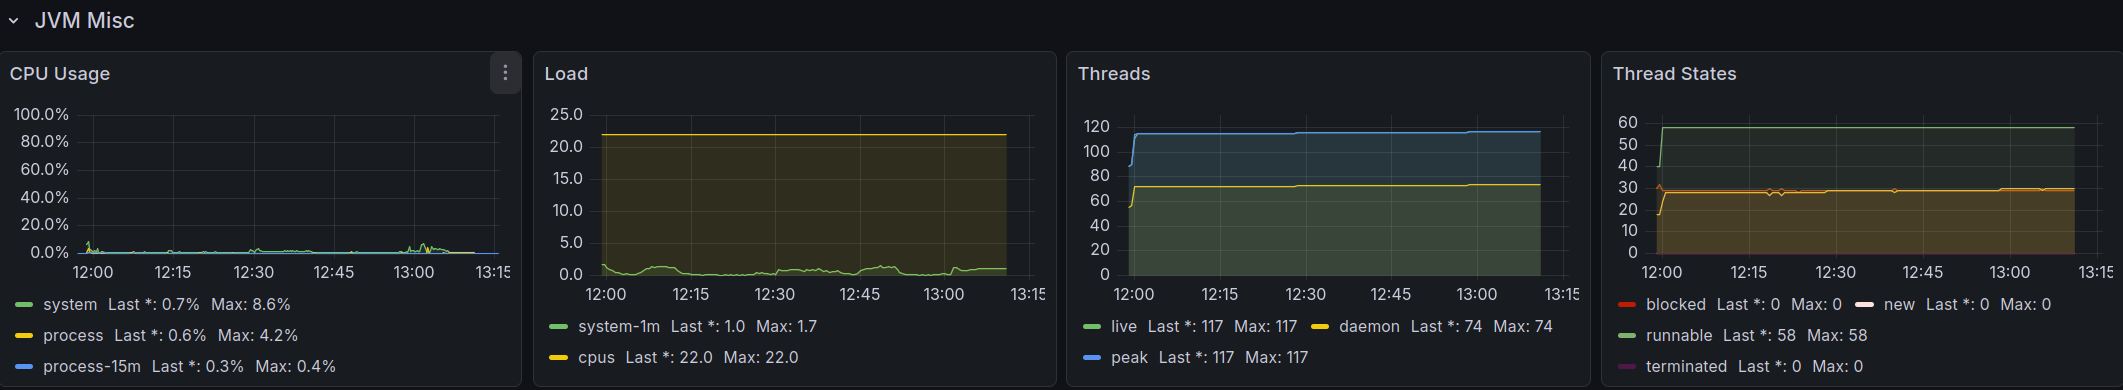
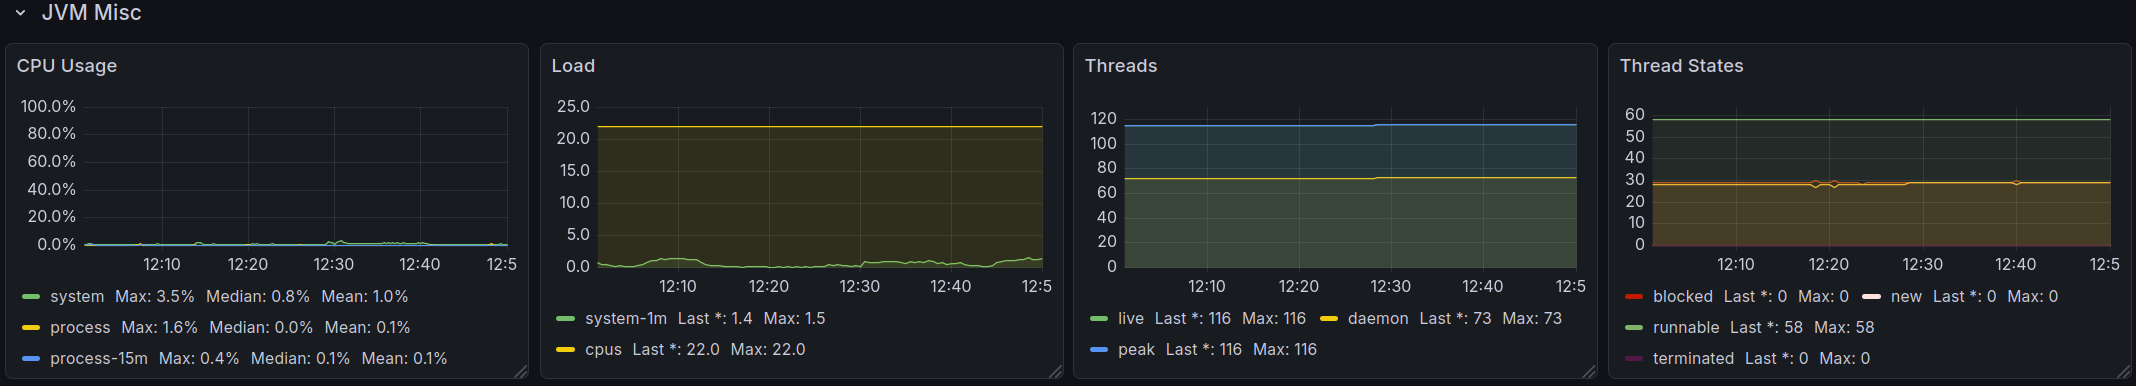
small medium daten erfasst

diff --git a/doc/scenarios/0-overview.md b/doc/scenarios/0-overview.md
@@ -16,14 +16,14 @@ scenario against the running Park Flow application and validate the result.
 
 ## Available Scenarios
 
-| #                                  | Scenario ID              | Description                                                    | Duration  |
-|------------------------------------|--------------------------|----------------------------------------------------------------|-----------|
+| #                                                             | Scenario ID              | Description                                                    | Duration  |
+|---------------------------------------------------------------|--------------------------|----------------------------------------------------------------|-----------|
 | [1](1-simple-parking-inventory/1-simple-parking-inventory.md) | simple-parking-inventory | Covers all use cases for creating a parking inventory          | ca. 1m    |
-| [2](2-simple-customer-access/2-simple-customer-access.md)   | simple-customer-access   | Covers all use cases for a customer end renting a parking spot | ca. 1m    |
+| [2](2-simple-customer-access/2-simple-customer-access.md)     | simple-customer-access   | Covers all use cases for a customer end renting a parking spot | ca. 1m    |
 | [3](3-simple-parking-operation/3-simple-parking-operation.md) | simple-parking-operation | Covers use cases for a parking operation                       | ca. 1m    |
-| [4](4-realistic-small/4-realistic-small.md)          | realistic-small          | Simulates a small parking lot with realistic timings           | ca. 1h5m  |
-| [5](5-realistic-medium/5-realistic-medium.md)         | realistic-medium         | Simulates a medium-sized parking lot with realistic timings    | ca. 2h45m |
-| [6](6-realistic-large/6-realistic-large.md)          | realistic-large          | Simulates a large parking lot with realistic timings           | ca. 10h   |
+| [4](4-realistic-small/4-realistic-small.md)                   | realistic-small          | Simulates a small parking lot with realistic timings           | ca. 1h5m  |
+| [5](5-realistic-medium/5-realistic-medium.md)                 | realistic-medium         | Simulates a medium-sized parking lot with realistic timings    | ca. 2h45m |
+| [6](6-realistic-large/6-realistic-large.md)                   | realistic-large          | Simulates a large parking lot with realistic timings           | ca. 10h   |
 
 ## Realistic Scenario Overview
 
@@ -33,5 +33,48 @@ scenario against the running Park Flow application and validate the result.
 | medium | 1.000         | 2     | 1.200    | 8s - 12s                   | 1m - 3m      | 1m - 3m       | 20m - 30m    | ca. 2h45m  |
 | large  | 10.000        | 5     | 12.000   | 8s - 12s                   | 1m - 4m      | 1m - 4m       | 20m - 30m    | ca. 10h    |
 
-## Realistic Scenario Details
+## Realistic Scenario Results
+
+| Category         | Value           | small            | medium           | large | 
+|------------------|-----------------|------------------|------------------|-------|
+| JVM Memory       |                 |                  |                  |       |
+|                  | max. used       | 505 MiB          | 464 MiB          |       |
+|                  | median used     | 361 MiB          | 343 MiB          |       |
+|                  | mean used       | 367 MiB          | 344 MiB          |       |
+|                  | max. commited   | 591 MiB          | 535 MiB          |       |
+|                  | median commited | 590 MiB          | 535 MiB          |       |
+|                  | mean commited   | 558 MiB          | 535 MiB          |       |
+|                  | max. maximal    | 16,6 GiB         | 16,6 GiB         |       |
+|                  | median maximal  | 16,6 GiB         | 16,6 GiB         |       |
+|                  | mean maximal    | 16,6 GiB         | 16,6 GiB         |       |
+| CPU Usage        |                 |                  |                  |       |
+|                  | max. system     | 3,5%             | 2,1%             |       |
+|                  | median system   | 0,8%             | 0,6%             |       |
+|                  | mean system     | 1,0%             | 0,7%             |       |
+|                  | max. process    | 1,6%             | 11,1%            |       |
+|                  | median process  | 0,0%             | 0,1%             |       |
+|                  | mean process    | 0,1%             | 0,2%             |       |
+| Threads          |                 |                  |                  |       |
+|                  | max. live       | 117              | 120              |       |
+|                  | max. peak       | 117              | 120              |       |
+|                  | max. deamon     | 74               | 77               |       |
+|                  | max. runable    | 58               | 58               |       |
+| Database Storage |                 |                  |                  |       |
+|                  | Events          | 1.000 kB         | 6.704 kB         |       |
+|                  | Snapshots       | 200 kB           | 272 kB           |       |
+| Events Published |                 |                  |                  |       |
+|                  | Total           | 1.302            | 10.604           |       |
+|                  | Max             | 0,8 events/sec   | 1,78 events/sec  |       |
+|                  | Median          | 0,333 events/sec | 1,0 events/sec   |       |
+|                  | Mean            | 0,349 events/sec | 0,929 events/sec |       |
+| Events Consumed  |                 |                  |                  |       |
+|                  | Total           | 3.557            | 29.213           |       |
+|                  | Max             | 1,89 events/sec  | 4,33 events/sec  |       |
+|                  | Median          | 0,8 events/sec   | 2,38 events/sec  |       |
+|                  | Mean            | 0,851 events/sec | 2,26 events/sec  |       |
+| Events RabbitMQ  |                 |                  |                  |       |
+|                  | Total           | 900              | 7.200            |       |
+|                  | Max             | 0,689 events/sec | 1,56 events/sec  |       |
+|                  | Median          | 0,289 events/sec | 0,822 events/sec |       |
+|                  | Mean            | 0,301 events/sec | 0,797 events/sec |       |
 

diff --git a/doc/scenarios/4-realistic-small/4-realistic-small.md b/doc/scenarios/4-realistic-small/4-realistic-small.md
@@ -15,9 +15,49 @@ Each wave has 50 vehicles and between each wave is a pause of 10 minutes.
 
 ## Successful Run
 
-| Used Heap          | Max CPU | Runnable Thread Count | DB Events | DB Snapshots | Events Consumed Total | Events Consumed Rate | Events Published Total | Events Published Rate | Rabbitmq Received Total | Rabbitmq Received |
-|--------------------|---------|-----------------------|-----------|--------------|----------------|-|-----------------|-|-------------------|-------------------|
-| 507 MiB / 16,6 GiB | 13%     | 58                    | 1.000 kb  | 200 kb       | 3.557           | | 1.302          |  | 900               | 0,6/sek           |
+| Category         | Value           | small            |
+|------------------|-----------------|------------------|
+| JVM Memory       |                 |                  |
+|                  | max. used       | 505 MiB          |
+|                  | median used     | 361 MiB          |
+|                  | mean used       | 367 MiB          |
+|                  | max. commited   | 591 MiB          |
+|                  | median commited | 590 MiB          |
+|                  | mean commited   | 558 MiB          |
+|                  | max. maximal    | 16,6 GiB         |
+|                  | median maximal  | 16,6 GiB         |
+|                  | mean maximal    | 16,6 GiB         |
+| CPU Usage        |                 |                  |
+|                  | max. system     | 3,5%             |
+|                  | median system   | 0,8%             |
+|                  | mean system     | 1,0%             |
+|                  | max. process    | 1,6%             |
+|                  | median process  | 0,0%             |
+|                  | mean process    | 0,1%             |
+| Threads          |                 |                  |
+|                  | max. live       | 117              |
+|                  | max. peak       | 117              |
+|                  | max. deamon     | 74               |
+|                  | max. runable    | 58               |
+| Database Storage |                 |                  |
+|                  | Events          | 1.000 kB         |
+|                  | Snapshots       | 200 kB           |
+| Events Published |                 |                  |
+|                  | Total           | 1.302            |
+|                  | Max             | 0,8 events/sec   |
+|                  | Median          | 0,333 events/sec |
+|                  | Mean            | 0,349 events/sec |
+| Events Consumed  |                 |                  |
+|                  | Total           | 3.557            |
+|                  | Max             | 1,89 events/sec  |
+|                  | Median          | 0,8 events/sec   |
+|                  | Mean            | 0,851 events/sec |
+| Events RabbitMQ  |                 |                  |
+|                  | Total           | 900              |
+|                  | Max             | 0,689 events/sec |
+|                  | Median          | 0,289 events/sec |
+|                  | Mean            | 0,301 events/sec |
+
 
 ![Successful Run](solution-logs.png)
 
@@ -26,13 +66,13 @@ Each wave has 50 vehicles and between each wave is a pause of 10 minutes.
 ### Pictures
 
 #### JVM – Memory
-![JVM - Memory](jvm-memory.png)
+![JVM - Memory](jvm-misc.png)
 
 #### JVM - Memory Pools
 ![JVM - Memory Pools](jvm-memory-pools.png)
 
 #### JVM - Misc
-![JVM - Misc](jvm-misc.png)
+![JVM - Misc](jvm-memory.png)
 
 #### Garbage Collection
 ![Garbage Collection](garbage-collection.png)

diff --git a/doc/scenarios/5-realistic-medium/5-realistic-medium.md b/doc/scenarios/5-realistic-medium/5-realistic-medium.md
@@ -15,9 +15,48 @@ Each wave has 200 vehicles split on both entrances, and between each wave is a p
 
 ## Successful Run
 
-| Used Heap          | Max CPU | Runnable Thread Count | DB Events | DB Snapshots | Events Consumed Total  | Events Consumed Rate | Events Published Total | Events Published Rate | Rabbitmq Received Total | Rabbitmq Received |
-|--------------------|---------|-----------------------|-----------|--------------|------------------------|----------------------|------------------------|-----------------------|-------------------------|-------------------|
-| 473 MiB / 16,6 GiB | 17.1%   | 58                    | 6.704 kb  | 272 kb       | 29.213                 | 1/sek                | 10.604                 | 1/sek                 | 7.200                   | 1,5/sek           |
+| Category         | Value           | medium           |
+|------------------|-----------------|------------------|
+| JVM Memory       |                 |                  |
+|                  | max. used       | 464 MiB          |
+|                  | median used     | 343 MiB          |
+|                  | mean used       | 344 MiB          |
+|                  | max. commited   | 535 MiB          |
+|                  | median commited | 535 MiB          |
+|                  | mean commited   | 535 MiB          |
+|                  | max. maximal    | 16,6 GiB         |
+|                  | median maximal  | 16,6 GiB         |
+|                  | mean maximal    | 16,6 GiB         |
+| CPU Usage        |                 |                  |
+|                  | max. system     | 2,1%             |
+|                  | median system   | 0,6%             |
+|                  | mean system     | 0,7%             |
+|                  | max. process    | 11,1%            |
+|                  | median process  | 0,1%             |
+|                  | mean process    | 0,2%             |
+| Threads          |                 |                  |
+|                  | max. live       | 120              |
+|                  | max. peak       | 120              |
+|                  | max. deamon     | 77               |
+|                  | max. runable    | 58               |
+| Database Storage |                 |                  |
+|                  | Events          | 6.704 kB         |
+|                  | Snapshots       | 272 kB           |
+| Events Published |                 |                  |
+|                  | Total           | 10.604           |
+|                  | Max             | 1,78 events/sec  |
+|                  | Median          | 1,0 events/sec   |
+|                  | Mean            | 0,929 events/sec |
+| Events Consumed  |                 |                  |
+|                  | Total           | 29.213           |
+|                  | Max             | 4,33 events/sec  |
+|                  | Median          | 2,38 events/sec  |
+|                  | Mean            | 2,26 events/sec  |
+| Events RabbitMQ  |                 |                  |
+|                  | Total           | 7.200            |
+|                  | Max             | 1,56 events/sec  |
+|                  | Median          | 0,822 events/sec |
+|                  | Mean            | 0,797 events/sec |
 
 ![Successful Run](solution-logs.png)
 
